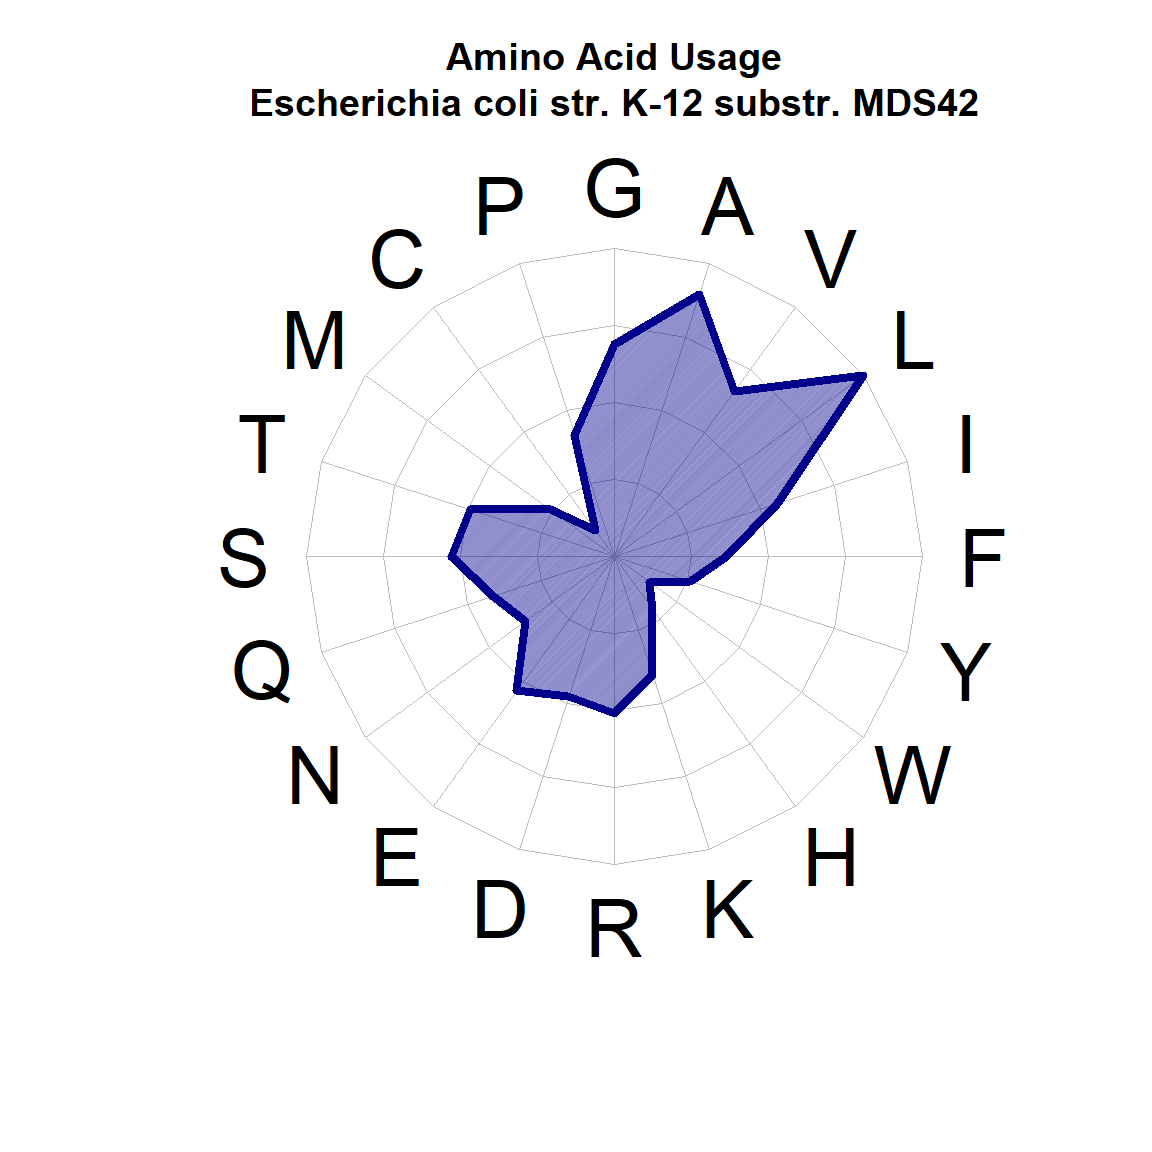
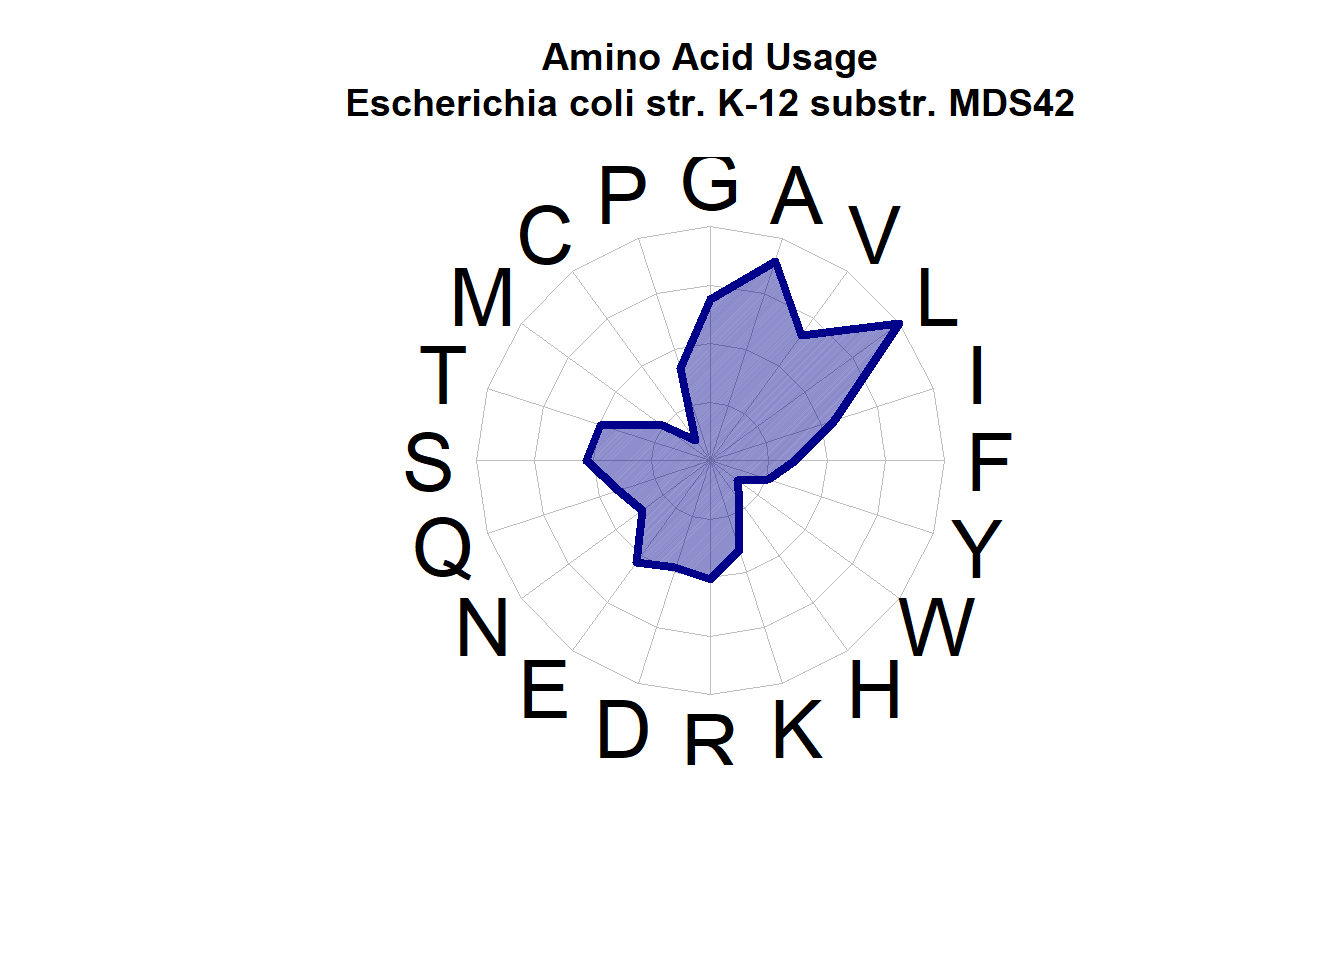
update images

diff --git a/docs/getting-started.html b/docs/getting-started.html
@@ -521,7 +521,6 @@ div.tocify {
 ## Creating dendrogram for 14 16S rRNA sequences
 ## use default substitution matrix</code></pre>
 <p><img src="getting-started_files/figure-html/dendrogram.eC-1.png" width="576" style="display: block; margin: auto;" /></p>
-<p><img src="./r_repository/dendrogram-1.png" /></p>
 <pre class="r"><code>  #The second plot is for the proteobacteria organisms
   dendrogram16S(proteobacteria)</code></pre>
 <pre><code>## Downloading genome data for organism with accession ID: CP018228 
@@ -537,12 +536,15 @@ div.tocify {
 ## Creating dendrogram for 6 16S rRNA sequences
 ## use default substitution matrix</code></pre>
 <p><img src="getting-started_files/figure-html/dendrogram.pb-1.png" width="576" style="display: block; margin: auto;" /></p>
-<p><img src="./r_repository/dendrogram-2.png" /></p>
 </div>
 <div id="genome-atlas" class="section level2" number="4.2">
 <h2><span class="header-section-number">4.2</span> Genome Atlas</h2>
 <p>If you want to create a genome atlas for an organism already in a list, such as the ones we have already created (<code>eColi</code> and <code>proteobacteria)</code>, then you can index into the list for that value.</p>
 <pre class="r"><code>  createAtlas(eColi[1]) # here we index into the list to select the first item, AP012306.</code></pre>
+<pre><code>## Writing SVG code for genome with accession ID: AP012306 
+## Calling protein genes for accession ID: AP012306 
+## Calling type TSU rRNA genes for genome with accession ID: AP012306
+## Calling type LSU rRNA genes for genome with accession ID: AP012306</code></pre>
 <p><img src="r_repository/GenomeAtlas_AP012306.png" /></p>
 <p>Note: This graphic generated at this step will be a stored as an SVG file in your Working Directory. SVG files can be accessed by:</p>
 <ul>
@@ -562,22 +564,8 @@ div.tocify {
 <h2><span class="header-section-number">4.3</span> Amino Acid Usage Plot</h2>
 <p>The <code>plotUsage</code> function has many options. See the <code>plotUsage</code> documentation for more details and parameters.</p>
 <pre class="r"><code>  plotUsage(eColi[1])</code></pre>
-<pre><code>## ----------
-## Predicting protein genes for genome with accession ID: AP012306 
-## Request: Single Genome, Phase: Training
-## Reading in the sequence(s) to train ... 3976195 bp sequence created, 51.14% GC
-## Looking for GC bias in different frames ... frame bias scores: 1.56 0.182 1.25 
-## Building initial set of genes to train from ...
-##  done!
-## Creating coding model and scoring nodes ... done!
-## Examining upstream regions and training starts ...
-##  done!
-## Request: Single Genome, Phase: Gene Finding
-## Finding genes in sequence # 1 (3976195 bp) ... 
-##  done!  3621 genes predicted
-## Plotting AA usage across 3621 proteins</code></pre>
-<p><img src="getting-started_files/figure-html/plot.usage-1.png" width="576" style="display: block; margin: auto;" /></p>
-<p><img src="./r_repository/plot.usage-1.png" /></p>
+<pre><code>## Plotting AA usage across 3621 proteins</code></pre>
+<p><img src="getting-started_files/figure-html/plot.usage-1.png" width="672" /></p>
 </div>
 <div id="codon-heat-map" class="section level2" number="4.4">
 <h2><span class="header-section-number">4.4</span> Codon Heat Map</h2>
@@ -625,7 +613,7 @@ div.tocify {
 ## Calling protein genes for accession ID: CP026877 
 ## Calling protein genes for accession ID: CP026793 
 ## Calling protein genes for accession ID: CP015831 
-## Number of ungapped alignments: 112023
+## Number of ungapped alignments: 112022
 ## Number of Smith-Waterman alignments: 2514</code></pre>
 <ol start="2" style="list-style-type: decimal">
 <li>Use the homology matrix to plot the Blast Matrix</li>
